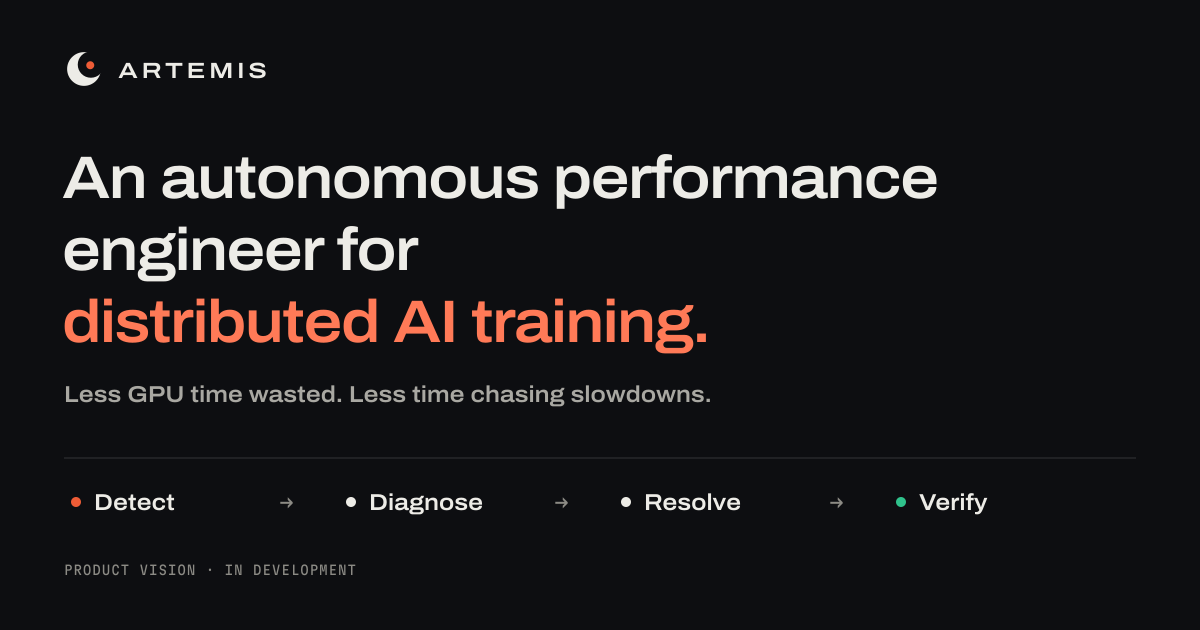
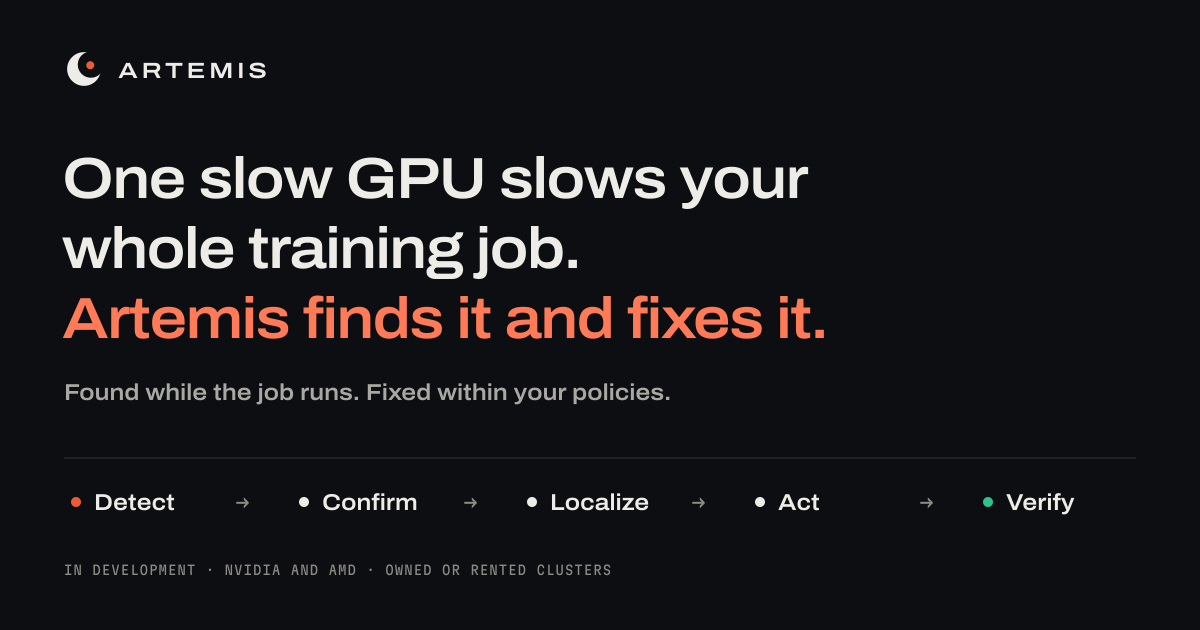
Rewrite the /Artemis homepage around finding and fixing the slow GPU (#13)
Puts the v2 homepage copy in place: a new hero over the 8-rank diagram,
a sourced stat strip, the problem, the five-step loop, what it catches,
why it isn't a dashboard, who it's for, and the status and contact
section. Updates the title, the description, the footer line and the
share card to match.

The stats are scoped to what the cited papers report, and the hero
caption uses the diagram's own 1.19 ratio.

diff --git a/src/components/artemis/Homepage.tsx b/src/components/artemis/Homepage.tsx
@@ -2,40 +2,168 @@ import Link from "next/link";
 import { mailto } from "@/data/artemis";
 import { Arrow, Container, button } from "./bits";
 
-const benefits = [
-  { title: "Recover GPU time.", body: "Find the bottlenecks that leave expensive hardware waiting instead of training." },
-  { title: "Give engineers time back.", body: "Bring detection, investigation, and recovery into one workflow—not another dashboard to watch." },
-  { title: "Know the fix worked.", body: "Measure useful training throughput after an intervention, not just whether an alert disappeared." },
+const stats = [
+  { figure: "16 of 27", label: "large training jobs (512–1,024 GPUs) hit a fail-slow slowdown in one month" },
+  { figure: "~10%", label: "of allocated GPU-hours lost to stragglers, estimated from one production cluster's traces" },
+  { figure: "30+ min", label: "on average, and up to days, for engineers to manually find one faulty machine" },
 ];
+
+const symptoms = [
+  "Throughput drops a few percent mid-run — and stays down",
+  "GPU utilization looks fine; the job is slow anyway",
+  "No error names the GPU, link, or host that changed",
+];
+
+const loop = [
+  {
+    title: "Detect",
+    body: "Artemis times every rank at the collectives it already joins, and compares each rank against its peers and its own history. A persistent slowdown is flagged while the job is still running — not in a postmortem.",
+  },
+  {
+    title: "Confirm",
+    body: "Before anyone acts, Artemis re-tests under matched conditions: same workload, hardware, and topology. A one-off fluctuation doesn't become an incident, and an unconfirmed regression never becomes the new baseline. The same matched testing runs after driver, library, or configuration changes.",
+  },
+  {
+    title: "Localize",
+    body: "Evidence across the host and input pipeline, the GPU, the communication runtime, and the interconnect narrows the problem to the rank, node, link, or software change responsible — with the measurements behind the conclusion, including when the evidence isn't enough to call it.",
+  },
+  {
+    title: "Act",
+    body: "Within the policies you set: rebalance work away from the slow rank, recommend a targeted fix, or apply a supported correction. Anything that needs a restart, a repair, or your approval is escalated — never hidden.",
+  },
+  {
+    title: "Verify",
+    body: "Artemis re-measures useful training throughput after the action. If it didn't recover, you see that too — and reversible actions roll back.",
+  },
+];
+
+const catches = [
+  { title: "GPU degradation", body: "Thermal throttling, power caps, clocks that stop boosting." },
+  { title: "Communication", body: "A degraded port, link, or switch path; one island's collectives slowing down." },
+  { title: "Host and input", body: "CPU contention, or a data-loader or storage stall holding one rank back off the GPU." },
+  { title: "Change regressions", body: "Slowdowns that arrive with a driver, communication-library, or configuration change." },
+];
+
+const outcomes = [
+  { title: "Recover GPU-hours you're already paying for", body: "measured against comparable workloads, not inferred from utilization." },
+  { title: "Give engineers their time back", body: "investigations that take a team hours to days become one supervised workflow." },
+  { title: "Keep the proof", body: "every fix verified against throughput; every conclusion traceable to measurements." },
+];
+
+const h2 = "ar-display text-[clamp(1.9rem,3.2vw,2.75rem)] leading-[1.12]";
+const prose = "text-[17px] leading-[1.7] text-ar-muted";
 
 export default function Homepage() {
   return (
     <>
-      <section aria-labelledby="value-title" className="border-t border-ar-line py-16 md:py-24">
+      <section aria-label="Why it matters" className="border-t border-ar-line py-12 md:py-16">
         <Container>
-          <div className="grid gap-6 lg:grid-cols-2 lg:gap-16">
-            <h2 id="value-title" className="ar-display max-w-[500px] text-[clamp(1.9rem,3.2vw,2.75rem)] leading-[1.12]">Your GPUs are expensive.<br />So is your team&apos;s time.</h2>
-            <p className="max-w-[520px] self-center text-[17px] leading-[1.7] text-ar-muted">One slow GPU can hold back an entire training job. Artemis is being built to find the cause, take permitted action, and verify recovery—so your team can focus on training, not troubleshooting.</p>
+          <dl className="grid gap-9 md:grid-cols-3 md:gap-10">
+            {stats.map((stat) => (
+              <div key={stat.figure} className="flex flex-col-reverse gap-3">
+                <dt className="max-w-[320px] text-[15px] leading-[1.6] text-ar-muted">{stat.label}</dt>
+                <dd className="ar-display text-[clamp(2rem,3.4vw,2.9rem)] leading-none text-ar-fg">{stat.figure}</dd>
+              </div>
+            ))}
+          </dl>
+          <p className="mt-9 max-w-[760px] text-[12px] leading-relaxed text-ar-faint">
+            Figures from published production-cluster studies:{" "}
+            <a href="https://arxiv.org/abs/2410.12588" className="underline decoration-ar-line-2 underline-offset-2 hover:text-ar-fg">FALCON (arXiv:2410.12588)</a>,{" "}
+            <a href="https://arxiv.org/abs/2505.05713" className="underline decoration-ar-line-2 underline-offset-2 hover:text-ar-fg">Lin et al. (arXiv:2505.05713)</a>,{" "}
+            <a href="https://www.usenix.org/conference/nsdi25/presentation/deng" className="underline decoration-ar-line-2 underline-offset-2 hover:text-ar-fg">Minder, ByteDance (NSDI &apos;25)</a>.
+          </p>
+        </Container>
+      </section>
+
+      <section aria-labelledby="problem-title" className="border-t border-ar-line py-16 md:py-24">
+        <Container>
+          <div className="grid gap-8 lg:grid-cols-2 lg:gap-16">
+            <h2 id="problem-title" className={`${h2} max-w-[520px]`}>Nothing crashes. Every step just gets slower.</h2>
+            <div className="max-w-[560px] space-y-5">
+              <p className={prose}>Distributed training moves in lockstep: a step finishes when the slowest rank arrives. One degraded GPU, link, or host sets the pace for the entire job — while utilization still looks busy and nothing raises an error.</p>
+              <p className={prose}>So teams find out late, or not at all. The run finishes hours behind, and the investigation starts from logs, across the infrastructure, network, storage, and hardware teams.</p>
+              <ul className="space-y-3 border-t border-ar-line pt-6">
+                {symptoms.map((s) => (
+                  <li key={s} className="flex gap-3 text-[15px] leading-[1.6] text-ar-fg">
+                    <span aria-hidden="true" className="mt-[9px] h-1.5 w-1.5 shrink-0 rounded-full bg-ar-signal" />
+                    {s}
+                  </li>
+                ))}
+              </ul>
+            </div>
           </div>
-          <div className="mt-12 grid gap-9 border-t border-ar-line pt-8 md:grid-cols-3 md:gap-10">
-            {benefits.map((benefit, i) => (
-              <div key={benefit.title}>
-                <span aria-hidden="true" className="ar-mono text-[11px] text-ar-faint">0{i + 1}</span>
-                <h3 className="mt-4 text-[20px] font-medium tracking-tight">{benefit.title}</h3>
-                <p className="mt-3 max-w-[340px] text-[15px] leading-[1.7] text-ar-muted">{benefit.body}</p>
+        </Container>
+      </section>
+
+      <section id="how" aria-labelledby="how-title" className="scroll-mt-24 border-t border-ar-line py-16 md:py-24">
+        <Container>
+          <h2 id="how-title" className={h2}>From slowdown to verified recovery, in one loop.</h2>
+          <ol className="mt-10 border-t border-ar-line">
+            {loop.map((step, i) => (
+              <li key={step.title} className="grid gap-3 border-b border-ar-line py-6 md:grid-cols-[40px_200px_1fr] md:gap-6">
+                <span className="ar-mono text-[12px] text-ar-faint">{i + 1}</span>
+                <h3 className="text-[18px] font-medium">{step.title}</h3>
+                <p className="max-w-[680px] text-[16px] leading-[1.65] text-ar-muted">{step.body}</p>
+              </li>
+            ))}
+          </ol>
+          <Link href="/Artemis/product/" className="group mt-8 inline-flex min-h-11 items-center gap-3 text-[14px] text-ar-fg">Inside Artemis: the architecture and research <Arrow /></Link>
+        </Container>
+      </section>
+
+      <section aria-labelledby="catches-title" className="border-t border-ar-line py-16 md:py-24">
+        <Container>
+          <h2 id="catches-title" className={h2}>The slowdowns that don&apos;t crash anything.</h2>
+          <div className="mt-10 grid gap-px border border-ar-line bg-ar-line sm:grid-cols-2 lg:grid-cols-4">
+            {catches.map((c) => (
+              <div key={c.title} className="bg-ar-bg p-6">
+                <h3 className="text-[17px] font-medium">{c.title}</h3>
+                <p className="mt-3 text-[15px] leading-[1.65] text-ar-muted">{c.body}</p>
               </div>
             ))}
           </div>
-          <Link href="/Artemis/product/" className="group mt-10 inline-flex min-h-11 items-center gap-3 text-[14px] text-ar-fg">How Artemis works <Arrow /></Link>
         </Container>
       </section>
-      <section id="contact" aria-labelledby="contact-title" className="border-t border-ar-line bg-ar-panel/40 py-16 md:py-20">
-        <Container className="flex flex-col items-start justify-between gap-7 md:flex-row md:items-center">
-          <div>
-            <h2 id="contact-title" className="ar-display text-[clamp(1.8rem,3vw,2.5rem)] leading-tight">Training shouldn&apos;t be a waiting game.</h2>
-            <p className="mt-4 text-[16px] text-ar-muted">Running distributed training? Let&apos;s talk about what slows you down.</p>
+
+      <section aria-labelledby="loop-title" className="border-t border-ar-line py-16 md:py-24">
+        <Container>
+          <div className="grid gap-6 lg:grid-cols-2 lg:gap-16">
+            <h2 id="loop-title" className={`${h2} max-w-[500px]`}>Not another dashboard to watch.</h2>
+            <p className={`${prose} max-w-[560px] self-center`}>Monitoring tells you something is slow. Artemis closes the loop: it confirms the slowdown is real, localizes it, acts within your policies, and proves the recovery. The output isn&apos;t a chart — it&apos;s an incident with a cause, the evidence for it, the action taken, and the measured result.</p>
           </div>
-          <a href={mailto("Artemis: let's talk")} className={`${button.solid} shrink-0`}>Talk to the founder <Arrow /></a>
+          <div className="mt-12 grid gap-9 border-t border-ar-line pt-8 md:grid-cols-3 md:gap-10">
+            {outcomes.map((o, i) => (
+              <div key={o.title}>
+                <span aria-hidden="true" className="ar-mono text-[11px] text-ar-faint">0{i + 1}</span>
+                <h3 className="mt-4 text-[19px] font-medium tracking-tight">{o.title}</h3>
+                <p className="mt-3 max-w-[340px] text-[15px] leading-[1.7] text-ar-muted">{o.body.charAt(0).toUpperCase() + o.body.slice(1)}</p>
+              </div>
+            ))}
+          </div>
+        </Container>
+      </section>
+
+      <section aria-labelledby="who-title" className="border-t border-ar-line py-16 md:py-24">
+        <Container>
+          <div className="grid gap-6 lg:grid-cols-2 lg:gap-16">
+            <h2 id="who-title" className={`${h2} max-w-[520px]`}>Built for the team that owns training performance.</h2>
+            <p className={`${prose} max-w-[560px] self-center`}>AI infrastructure, research-computing, and GPU-operations teams running distributed training on owned or rented clusters. Vendor-independent by design: across NVIDIA and AMD, across GPU generations, not tied to one cloud&apos;s or one vendor&apos;s stack.</p>
+          </div>
+        </Container>
+      </section>
+
+      <section id="contact" aria-labelledby="status-title" className="border-t border-ar-line bg-ar-panel/40 py-16 md:py-20">
+        <Container>
+          <div className="grid gap-6 lg:grid-cols-2 lg:gap-16">
+            <h2 id="status-title" className={`${h2} max-w-[520px]`}>In development — built with the teams who&apos;ll run it.</h2>
+            <p className={`${prose} max-w-[560px] self-center`}>
+              Artemis is in active development. What exists today: <Link href="/Artemis/product/#gpubridge" className="text-ar-fg underline decoration-ar-line-2 underline-offset-4 hover:decoration-ar-fg">GPUBridge</Link>, our open-source backend for mixed NVIDIA + AMD PyTorch jobs, and the detector prototypes described inside. We&apos;re talking with infrastructure teams about the slowdowns that cost them the most — those conversations set the roadmap.
+            </p>
+          </div>
+          <div className="mt-12 flex flex-col items-start justify-between gap-7 border-t border-ar-line pt-10 md:flex-row md:items-center">
+            <h2 className="ar-display text-[clamp(1.6rem,2.6vw,2.2rem)] leading-tight">Running distributed training? Tell us what slows you down.</h2>
+            <a href={mailto("Artemis: let's talk")} className={`${button.solid} shrink-0`}>Talk to the founder <Arrow /></a>
+          </div>
         </Container>
       </section>
     </>

diff --git a/src/components/artemis/Hero.tsx b/src/components/artemis/Hero.tsx
@@ -1,28 +1,27 @@
-import Link from "next/link";
 import { mailto } from "@/data/artemis";
 import { Arrow, Container, button } from "./bits";
-import PerformanceLoop from "./PerformanceLoop";
+import HeroFigure from "./HeroFigure";
 
 export default function Hero() {
   return (
     <section aria-labelledby="hero-title" className="pb-14 pt-14 md:pb-20 md:pt-24">
       <Container>
-        <div className="grid items-center gap-12 lg:grid-cols-[1.2fr_1fr] lg:gap-16">
-          <div>
-            <p className="ar-label text-ar-faint">Distributed AI training. Less friction.</p>
-            <h1 id="hero-title" className="ar-display mt-6 max-w-[710px] text-[clamp(2.35rem,4.7vw,4.2rem)] leading-[1.07] text-ar-fg">
-              An autonomous performance engineer for <span className="text-ar-signal-ink">distributed AI training.</span>
-            </h1>
-            <p className="mt-7 max-w-[540px] text-[17px] leading-[1.65] text-ar-muted md:text-[19px]">
-              Less GPU time wasted. Less engineering time spent chasing slowdowns.
-            </p>
-            <div className="mt-8 flex flex-wrap items-center gap-4">
-              <a href={mailto("Artemis: let's talk")} className={button.solid}>Talk to the founder <Arrow /></a>
-              <Link href="/Artemis/product/" className="group inline-flex min-h-12 items-center gap-2 text-[15px] text-ar-muted transition-colors hover:text-ar-fg">Explore the product <Arrow /></Link>
-            </div>
-            <p className="mt-5 text-[12px] text-ar-faint">In development. Built with AI infrastructure teams in mind.</p>
-          </div>
-          <PerformanceLoop />
+        <p className="ar-label text-ar-faint">For teams running distributed AI training</p>
+        <h1 id="hero-title" className="ar-display mt-6 max-w-[980px] text-[clamp(2.35rem,4.7vw,4.2rem)] leading-[1.07] text-ar-fg">
+          One slow GPU slows your whole training job. <span className="text-ar-signal-ink">Artemis finds it and fixes it.</span>
+        </h1>
+        <p className="mt-7 max-w-[660px] text-[17px] leading-[1.65] text-ar-muted md:text-[19px]">
+          Artemis watches your training jobs while they run. When a rank falls behind, it pinpoints the cause — a GPU, a link, or a host — applies a fix inside the policies you set, and verifies that throughput recovered.
+        </p>
+        <div className="mt-8 flex flex-wrap items-center gap-4">
+          <a href={mailto("Artemis: let's talk")} className={button.solid}>Talk to the founder <Arrow /></a>
+          <a href="#how" className="group inline-flex min-h-12 items-center gap-2 text-[15px] text-ar-muted transition-colors hover:text-ar-fg">
+            See how it works <span aria-hidden="true">↓</span>
+          </a>
+        </div>
+        <p className="mt-5 text-[12px] text-ar-faint">In development · NVIDIA and AMD · Owned or rented clusters</p>
+        <div className="mt-14">
+          <HeroFigure caption="Rank 2 is running 19% slow. The other seven ranks wait for it at every all-reduce. (Illustration.)" />
         </div>
       </Container>
     </section>

diff --git a/src/components/artemis/HeroFigure.tsx b/src/components/artemis/HeroFigure.tsx
@@ -69,7 +69,7 @@ function Readout({ balanced, touched }: { balanced: boolean; touched: boolean })
 }
 
 /** The hero's strip with the one action Artemis can take on it: rebalance, then put it back. */
-export default function HeroFigure() {
+export default function HeroFigure({ caption = hero.caption }: { caption?: string }) {
   const [balanced, setBalanced] = useState(false);
   const [touched, setTouched] = useState(false);
 
@@ -124,7 +124,7 @@ export default function HeroFigure() {
       <figcaption className="mt-4 flex flex-col gap-3 md:flex-row md:items-start md:justify-between md:gap-8">
         <LanesLegend />
         <p className="max-w-[480px] text-[13px] leading-relaxed text-ar-faint md:text-right" aria-live="polite">
-          {balanced ? hero.captionBalanced : hero.caption}
+          {balanced ? hero.captionBalanced : caption}
         </p>
       </figcaption>
     </figure>

diff --git a/src/app/Artemis/page.tsx b/src/app/Artemis/page.tsx
@@ -5,9 +5,9 @@ import Header, { Footer } from "@/components/artemis/Header";
 import Hero from "@/components/artemis/Hero";
 import Homepage from "@/components/artemis/Homepage";
 
-const TITLE = `${artemis.name} · Your autonomous performance engineer`;
+const TITLE = `${artemis.name} — Find and fix the GPU slowing your training job`;
 const DESCRIPTION =
-  "An autonomous performance engineer for distributed AI training. Artemis is being built to reduce wasted GPU time and the engineering effort spent finding and fixing slowdowns.";
+  "Artemis monitors distributed AI training while it runs, pinpoints the slow GPU, link, or host, fixes it within your policies, and verifies throughput recovered. For AI infrastructure teams, across NVIDIA and AMD, on owned or rented clusters.";
 
 export const metadata: Metadata = {
   title: TITLE,

diff --git a/src/components/artemis/Header.tsx b/src/components/artemis/Header.tsx
@@ -32,7 +32,10 @@ export function Footer() {
   return (
     <footer className="border-t border-ar-line">
       <Container className="flex flex-col gap-5 py-8 text-[12px] text-ar-faint sm:flex-row sm:items-center sm:justify-between">
-        <p>© {new Date().getFullYear()} Artemis · Founded by {artemis.founder}</p>
+        <div className="space-y-1.5">
+          <p className="text-ar-muted">Artemis — performance diagnosis and recovery for distributed AI training.</p>
+          <p>© {new Date().getFullYear()} Artemis · Founded by {artemis.founder}</p>
+        </div>
         <nav aria-label="Footer" className="flex flex-wrap gap-x-6 gap-y-3">
           <Link href="/Artemis/product/" className="hover:text-ar-fg">Product</Link>
           <a href={artemis.github} className="hover:text-ar-fg">GPUBridge ↗</a>
